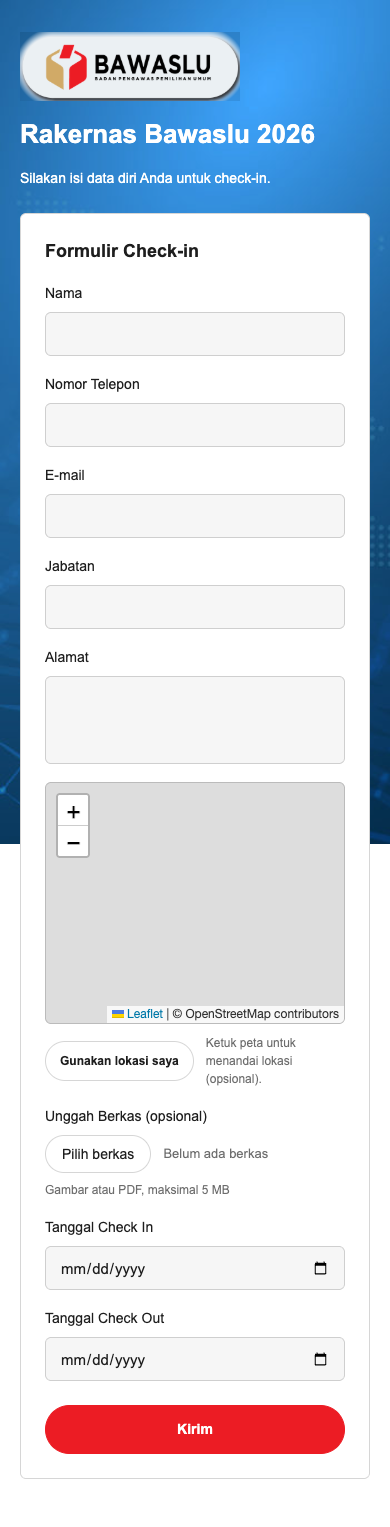
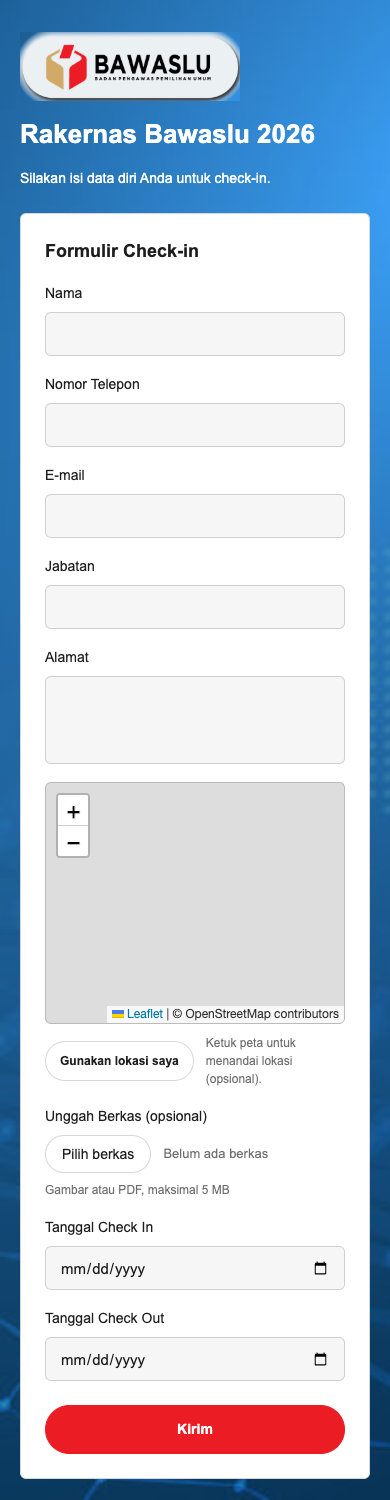
test: capture the public screenshot in a tall viewport

diff --git a/tests/e2e/screenshots.spec.ts b/tests/e2e/screenshots.spec.ts
@@ -14,7 +14,9 @@ test("captures reference screenshots of the public form and the admin list", asy
   await page.setViewportSize({ width: 390, height: 844 });
   await page.goto("/");
   await expect(page.getByRole("button", { name: "Kirim", exact: true })).toBeVisible();
-  await page.screenshot({ path: "artifacts/public-390.png", fullPage: true });
+  // A tall viewport instead of fullPage: the fixed background layer is captured only once per viewport.
+  await page.setViewportSize({ width: 390, height: 1500 });
+  await page.screenshot({ path: "artifacts/public-390.png" });
   await page.setViewportSize({ width: 1280, height: 900 });
   await page.goto("/admin");
   await signInAsAdmin(page);
